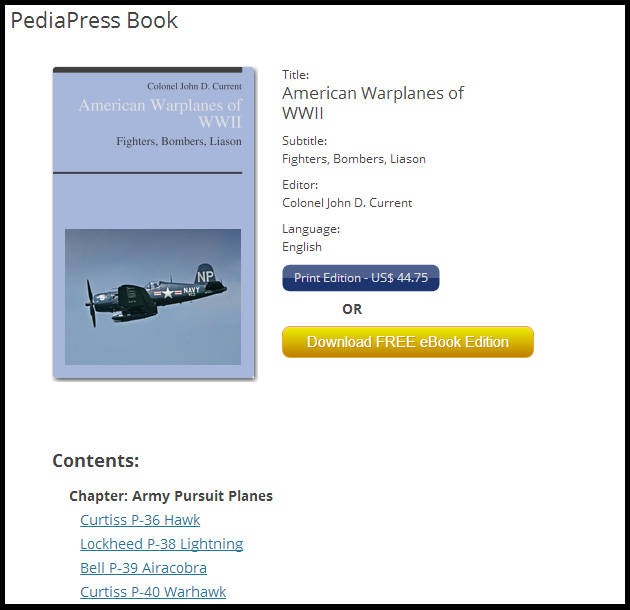
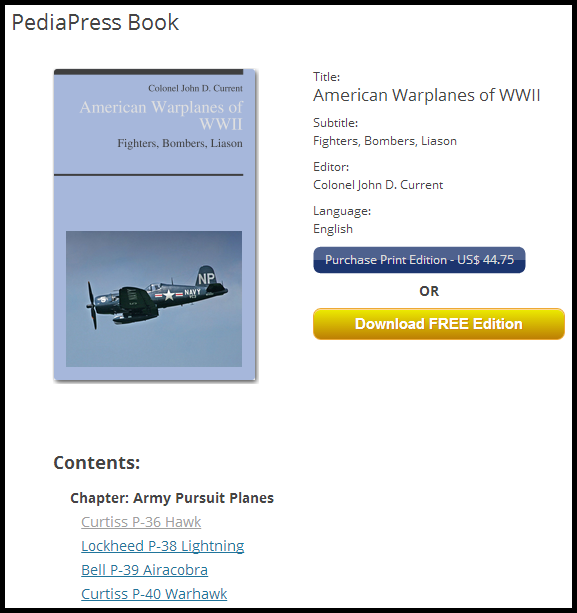
Release v1.4.0
git-svn-id: https://plugins.svn.wordpress.org/rdp-wiki-press-embed/trunk@1048371 b8457f37-d9ea-0310-8a92-e5e31aec5664

Changed region(s): [[0.0624, 0.0934, 0.9983, 0.6541], [0.0624, 0.7475, 0.4679, 0.9967], [0.0, 0.0, 0.312, 0.0623]]

diff --git a/resources/js/pediapress-overlay.js b/resources/js/pediapress-overlay.js
@@ -5,15 +5,53 @@ $j(document).ready(rdp_pp_overlay_onReady);
 
 function rdp_pp_overlay_onReady(){
     $j('#mainContent .ready').removeClass('invisible');
-    $j(".ppe-cover-link").colorbox({iframe:true, innerWidth: 900, innerHeight:"80%",transition:"none"})
-    $j(".ppe-add-to-cart").colorbox({iframe:true, innerWidth: 900, innerHeight:"80%",transition:"none"})
-    if(typeof rdp_we_ppe != 'undefined'){
+
+    if(typeof rdp_we_ppe == 'undefined'){
+        $j(".ppe-cover-link").colorbox({iframe:true, innerWidth: 960, innerHeight:"80%",transition:"none"})
+        $j(".ppe-add-to-cart").colorbox({iframe:true, innerWidth: 960, innerHeight:"80%",transition:"none"})
+    }else{
+
+        $j(".ppe-cover-link").colorbox(
+                                    {returnFocus:false,
+                                    inline:true, 
+                                    innerWidth: 960, 
+                                    innerHeight:"80%",
+                                    transition:"none"
+                                    }); 
+
+        $j(".ppe-add-to-cart").colorbox(
+                                    {returnFocus:false,
+                                    inline:true, 
+                                    innerWidth: 960, 
+                                    innerHeight:"80%",
+                                    transition:"none"
+                                    });                                   
+
+
         $j("#rdp-ppe-inline-content-link").colorbox(
-                                        {inline:true, 
-                                        innerWidth: 900, 
+                                        {returnFocus:false,
+                                        inline:true, 
+                                        innerWidth: 960, 
                                         innerHeight:"80%",
-                                        transition:"none",
-					onCleanup:function(){$j("#rdp_ppe_inline_content_wrapper").html($j("#cboxLoadedContent").html());}
-                                        })        
+                                        transition:"none"
+                                        }) ;
+        $j( "#wiki-embed-tabs" ).tabs(); 
+        
+        $j(document).bind('cbox_complete', function(){
+            setTimeout(function(){
+                $j( "#wiki-embed-tabs .ppe-tab" ).height($j( "#cboxLoadedContent" ).height() - ($j( "#wiki-embed-tabs .ui-tabs-nav" ).height()*3));
+            },300);  
+        }); 
+        
+        $j(document).bind('cbox_cleanup', function(){
+          $j("#rdp_ppe_inline_content_wrapper").html($j("#cboxLoadedContent").html());
+          
+        }); 
+        
+        $j(document).bind('cbox_closed', function(){
+            setTimeout(function(){$j( "#wiki-embed-tabs" ).tabs();},300);
+        });
     }
+      
+
 }//rdp_pp_overlay_onReady

diff --git a/resources/css/pediapress.common.css b/resources/css/pediapress.common.css
@@ -23,10 +23,6 @@
     clear: both;
 }
 
-#mainContent .not-allowed {
-    cursor:not-allowed;
-}
-
 em {
     font-style: italic;
 }
@@ -80,6 +76,8 @@ strong {
 #mainContent .small {
     font-size: 90%;
 }
+
+
 
 #mainContent h1,#mainContent h2,#mainContent h3 {
     clear: both;
@@ -202,7 +200,7 @@ strong {
 }
 
 #mainContent .w4 {
-    width: 206px;
+    width: 236px;
 }
 
 #mainContent .w5 {
@@ -473,7 +471,7 @@ body#errorpage {
     margin-bottom: 0.5em;
 }
 
-#rdp-ppe-inline-content-sep{padding: 5px 0 5px 60px;font-weight: bold;}
+#rdp-ppe-inline-content-sep{padding: 5px 0 5px 106px;font-weight: bold;}
 
 #pp_index .noBox {
     margin-bottom: 30px;
@@ -1209,6 +1207,8 @@ body#errorpage {
     text-align: center;
 }
 
+#mainContent.book_show #coverPreviewArea div a:hover{cursor: pointer;}
+
 #mainContent.book_show li.chapter {
     font-weight: bold;
     list-style-type: none;
@@ -1297,3 +1297,5 @@ li.book-digest {
 .book-digest .title {
     font-size: 120%;
 }
+
+#rdp_ppe_inline_content .ui-tabs .ppe-tab iframe{width: 100%;height:100%;}

diff --git a/resources/rdpWEPPE.php b/resources/rdpWEPPE.php
@@ -3,13 +3,17 @@ if ( ! class_exists('RDP_WE_PPE') ) :
 class RDP_WE_PPE {
     public static function shortcode_handler($url,$atts,$content = null){
         wp_enqueue_script( 'colorbox', plugins_url( '/resources/js/jquery.colorbox.min.js',RDP_WE_PLUGIN_BASENAME),array("jquery"), "1.3.20.2", true );        
-        wp_enqueue_script( 'pp-overlay', plugins_url( '/resources/js/pediapress-overlay.js',RDP_WE_PLUGIN_BASENAME),array("jquery",'colorbox'), "1.0", true );        
+        wp_enqueue_script( 'ppe-overlay', plugins_url( '/resources/js/pediapress-overlay.js',RDP_WE_PLUGIN_BASENAME),array("jquery",'colorbox'), "1.0", true );        
         if(!empty($content)){
             $params = array('fcontent' => 1);
-            wp_localize_script( 'pp-overlay', 'rdp_we_ppe', $params );
+            wp_localize_script( 'ppe-overlay', 'rdp_we_ppe', $params );
+            wp_enqueue_script("jquery-ui-tabs");
+            wp_enqueue_style( 'wiki-embed-admin-core-style', plugins_url( '/admin/css/jquery-ui.css',RDP_WE_PLUGIN_BASENAME ), null,'1.11.2' );            
+            wp_enqueue_style( 'wiki-embed-admin-theme-style', plugins_url( '/admin/css/jquery-ui.theme.min.css',RDP_WE_PLUGIN_BASENAME ), array('wiki-embed-admin-core-style'),'1.11.2' );             
         } 
 
-        wp_enqueue_style( 'wiki-embed-overlay', plugins_url( '/resources/css/colorbox.css',RDP_WE_PLUGIN_BASENAME),false, "1.3.20.2", 'screen');        
+        wp_enqueue_style( 'ppe-colorbox-style', plugins_url( '/resources/css/colorbox.css',RDP_WE_PLUGIN_BASENAME),false, "1.3.20.2", 'screen');        
+        
         $content = self::grabContentFromPediaPress($url,$atts,$content);
         return $content;
     } //shortcode
@@ -18,12 +22,8 @@ class RDP_WE_PPE {
     public static function grabContentFromPediaPress($URL,$atts,$content = null){
         $html = null;
         $sHTML = '';
-        require_once RDP_WE_PLUGIN_BASEDIR .'/resources/simple_html_dom.php'; 
-        $html = rdp_file_get_html($URL);
-        if(!$html)return $sHTML;  
         global $wikiembed_object;     
-        $wikiembed_options = $wikiembed_object->options; 
-        
+        $wikiembed_options = $wikiembed_object->options;         
         $a = shortcode_atts( array(
         'url' => '',
         'toc_show' => empty($wikiembed_options['toc-show'])? '0' : $wikiembed_options['toc-show'],
@@ -43,6 +43,32 @@ class RDP_WE_PPE {
         if(!is_numeric($a['toc_show']))$a['toc_show'] = 1;
         $arrTOCLinksDefaults = array('default','disabled','logged-in');
         if(!in_array( $a['toc_links'], $arrTOCLinksDefaults ))$a['toc_links'] = 'default';
+        
+        $sKEY = esc_url( $a['url'] ).",";
+        $sKEY .= $a['toc_show'] .",";
+        $sKEY .= $a['toc_links'] .",";
+        $sKEY .= $a['cta_button_content'] .",";
+        $sKEY .= $a['cta_button_text'] .",";
+        $sKEY .= $a['cta_button_width'] .",";
+        $sKEY .= $a['cta_button_top_color'] .",";
+        $sKEY .= $a['cta_button_font_color'] .",";
+        $sKEY .= $a['cta_button_font_hover_color'] .",";
+        $sKEY .= $a['cta_button_border_color'] .",";
+        $sKEY .= $a['cta_button_bottom_color'] .",";
+        $sKEY .= $a['cta_button_box_shadow_color'] .",";
+        $sKEY .= $a['cta_button_text_shadow_color'] .",";
+        $sKEY .= is_user_logged_in();
+        $sKEY = 'ppebook-' . md5($sKEY);
+        
+        $cacheInterval = empty($wikiembed_options['ppe-update'])? '0' : $wikiembed_options['ppe-update']; 
+        if(!is_numeric($cacheInterval))$cacheInterval = 0;        
+        if ($cacheInterval > 0 && false !== ( $special_query_results = get_transient( $sKEY ) ) ) return $special_query_results;
+        
+        require_once RDP_WE_PLUGIN_BASEDIR .'/resources/simple_html_dom.php'; 
+        $html = rdp_file_get_html($URL);
+        if(!$html)return $sHTML;  
+
+        
         $sDownloadButton = '';
         $sInlineHTML = '';        
         $bodyID = $html->find('body',0)->id;
@@ -69,8 +95,10 @@ class RDP_WE_PPE {
                 $mainContent->class = 'book_show';
                 $coverImage = $mainContent->find('#coverImage',0);
                 $coverImage->src = $baseURL . $coverImage->src;
-                $coverImage->outertext = "<a href='{$URL}' target='_new' class='ppe-cover-link'>" . $coverImage->outertext . "</a>";
-                
+                $coverImageLink = "<a target='_new' href='";
+                $coverImageLink .= (!empty($a['cta_button_content']))? "#rdp_ppe_inline_content" : $URL ;
+                $coverImageLink .= "' class='ppe-cover-link'>" . $coverImage->outertext . "</a>";
+                $coverImage->outertext = $coverImageLink;
                 if(empty($a['toc_show'])){
                     $mainContent->find('h2',0)->outertext = '';
                     $mainContent->find('ul.outline',0)->outertext = '';                    
@@ -79,15 +107,13 @@ class RDP_WE_PPE {
                         case 'logged-in':
                             if(!is_user_logged_in()):
                                 foreach($mainContent->find('ul.outline li a') as $link){
-                                    $link->href = null;
-                                    $link->class = 'not-allowed';
+                                    $link->outertext = $link->innertext;
                                 }
                             endif;
                             break;
                         case 'disabled':
                             foreach($mainContent->find('ul.outline li a') as $link){
-                                $link->href = null;
-                                $link->class = 'not-allowed';
+                                $link->outertext = $link->innertext;
                             }
                             break;
                         default:
@@ -109,7 +135,10 @@ class RDP_WE_PPE {
                 
                 $sPriceCurrency = $mainContent->find('#price-currency',0)->innertext;
                 $sPriceAmount = $mainContent->find('#price-amount',0)->innertext;
-                $sAddToCart = "<div id='add-to-cart-box'><span class='btn'><a class='ppe-add-to-cart' target='_new' href={$URL}>Print Edition - {$sPriceCurrency} {$sPriceAmount}</a><div></div></span></div>";
+                $sAddToCart = "<div id='add-to-cart-box'><span class='btn'><a href='";
+                $sAddToCart .= (!empty($a['cta_button_content']))? "#rdp_ppe_inline_content" : $URL ;
+                $sAddToCartText = "Purchase Print Edition - {$sPriceCurrency} {$sPriceAmount}";
+                $sAddToCart .= "' class='ppe-add-to-cart' target='_new'>$sAddToCartText</a><div></div></span></div>";
                 $mainContent->find('#price-amount',0)->outertext = '';
                 $mainContent->find('#price-star',0)->outertext = '';
                  
@@ -145,8 +174,19 @@ class RDP_WE_PPE {
                     $sDownloadButton = "<div id='rdp-ppe-inline-content-sep'>OR</div>";
                     $sDownloadButton .= "<div><a id='rdp-ppe-inline-content-link' class='rdp-ppe-cta-button' href='#rdp_ppe_inline_content'>{$a['cta_button_text']}</a></div>";
                     $sInlineHTML .= "<div id='rdp_ppe_inline_content_wrapper' style='display:none'><div id='rdp_ppe_inline_content' style='padding:10px; background:#fff;'>";
+                    $sInlineHTML .= '<div id="wiki-embed-tabs" style="position: static;">';
+                    $sInlineHTML .= "<ul>";
+                    $sInlineHTML .= "<li><a href='#tab-1'>{$a['cta_button_text']}</a></li>";
+                    $sInlineHTML .= "<li><a href='#tab-2'>{$sAddToCartText}</a></li>";
+                    $sInlineHTML .= "</ul>";
+                    $sInlineHTML .= '<div id="tab-1" class="ppe-tab">';
                     $sInlineHTML .= do_shortcode($a['cta_button_content']);
-                    $sInlineHTML .= "</div></div>";
+                    $sInlineHTML .= "</div><!-- #tab-1 -->";
+                    $sInlineHTML .= '<div id="tab-2" class="ppe-tab">';                    
+                    $sInlineHTML .= "<iframe src='{$URL}'></iframe>";
+                    $sInlineHTML .= "</div><!-- #tab-2 -->"; 
+                    $sInlineHTML .= "</div><!-- #ppe-tabs -->";                    
+                    $sInlineHTML .= "</div><!-- #rdp_ppe_inline_content --></div>";
                 }                 
                 $metaData->innertext = $metaParasContent . $sAddToCart . $sDownloadButton;
                 $boundingBoxes[1]->outertext = $s1Divs[0]->outertext . $metaData->outertext; 
@@ -214,10 +254,12 @@ class RDP_WE_PPE {
    
 EOS;
        
-        
-        
-        return $sHTML . $style;
+        $sHTML .= $style;
+
+        if($cacheInterval > 0)set_transient( $sKEY, $sHTML, $cacheInterval * HOUR_IN_SECONDS );
+        return $sHTML;
     }//grabContentFromPediaPress
+    
     
 }//RDP_WE_PPE
 endif;

diff --git a/admin/settings-page.php b/admin/settings-page.php
@@ -8,21 +8,28 @@ function wikiembed_settings_page() {
 	$updated = false;
 	$option = "wikiembed_options";
 
-	if ( isset( $_POST[$option] ) ):
-		$value = $_POST[$option];
+        if(isset($_POST['btnClearPPECache'])){
+            global $wpdb;
+            $sSQL = "DELETE FROM $wpdb->options WHERE option_name LIKE '%_ppebook-%';";
+            $wpdb->query($sSQL);
+            
+        }
+        
+	if (!isset($_POST['btnClearPPECache']) && isset( $_POST[$option] ) ):
+            $value = $_POST[$option];
 
-               $fdisplayTOC = empty($value['toc-show'])? 0 : intval($value['toc-show']);
-		
-		if ( ! is_array( $value ) ) {
-			$value = trim($value);
-		}else{
-                    $value = shortcode_atts( $wikiembed_object->default_settings(), $value );
-                }
-		
-                $value['toc-show'] = $fdisplayTOC;
-		$value = stripslashes_deep( $value );
-		$updated = update_option( $option, $value );
-		$wikiembed_options = $value;
+           $fdisplayTOC = empty($value['toc-show'])? 0 : intval($value['toc-show']);
+
+            if ( ! is_array( $value ) ) {
+                    $value = trim($value);
+            }else{
+                $value = shortcode_atts( $wikiembed_object->default_settings(), $value );
+            }
+
+            $value['toc-show'] = $fdisplayTOC;
+            $value = stripslashes_deep( $value );
+            $updated = update_option( $option, $value );
+            $wikiembed_options = $value;
 	endif; 	
 	
 	$tabs_support = get_theme_support( 'tabs' );
@@ -116,6 +123,26 @@ function wikiembed_settings_page() {
 			<h3>Global Settings </h3>
 			<p>These settings are applied site-wide</p>
 			<table class="form-table">
+				<tr> <!-- Update Content -->
+					<th valign="top" class="label" scope="row">
+						<span class="alignleft">
+							<label for="src">Update content from PediaPress</label>
+						</span>
+					</th>
+					<td class="field">
+						<select name="wikiembed_options[ppe-update]" id="ppe-update">
+							<option value="0" <?php selected( $wikiembed_options['ppe-update'], "0" ); ?>>No Caching</option>
+							<option value="12" <?php selected( $wikiembed_options['ppe-update'], "12" ); ?>>Every 12 Hours </option>
+							<option value="24" <?php selected( $wikiembed_options['ppe-update'], "24" ); ?>>Every 24 Hours </option>
+							<option value="48" <?php selected( $wikiembed_options['ppe-update'], "48" ); ?>>Every 48 Hours </option>
+							<option value="72" <?php selected( $wikiembed_options['ppe-update'], "72" ); ?>>Every 72 Hours </option>
+						</select>
+						<div class="help-div">
+							Set the duration the content of PediaPress book pages to be stored on your site, before it is refreshed again.
+						</div>
+                                            <p><input type="submit" name="btnClearPPECache" value="Clear PediaPress Cache" /></p>
+					</td>
+				</tr>                            
 				<tr> <!-- Update Content -->
 					<th valign="top" class="label" scope="row">
 						<span class="alignleft">
@@ -430,7 +457,8 @@ function wikiembed_options_validate( $wikiembed_options ) {
 		'style'           => ( isset( $wikiembed_options['style']           ) && $wikiembed_options['style']           == 1 ? 1 : 0 ),
 		'tabs-style'      => ( isset( $wikiembed_options['tabs-style']      ) && $wikiembed_options['tabs-style']      == 1 ? 1 : 0 ),
 		'accordion-style' => ( isset( $wikiembed_options['accordion-style'] ) && $wikiembed_options['accordion-style'] == 1 ? 1 : 0 ),
-		'wiki-update'     => ( is_numeric( $wikiembed_options['wiki-update'] ) ? $wikiembed_options['wiki-update'] : "30" ),
+                'ppe-update'     => ( is_numeric( $wikiembed_options['ppe-update'] ) ? $wikiembed_options['ppe-update'] : "12" ), /* hours */
+		'wiki-update'     => ( is_numeric( $wikiembed_options['wiki-update'] ) ? $wikiembed_options['wiki-update'] : "30" ), /* minutes */
 		'wiki-links'      => ( in_array( $wikiembed_options['wiki-links'], array( "default", "overlay", "new-page","overwrite" ) ) ? $wikiembed_options['wiki-links'] : "default" ),
 		'wiki-links-new-page-email' => wp_rel_nofollow( $wikiembed_options['wiki-links-new-page-email'] ),
 		'toc-show'            => ( isset( $wikiembed_options['toc-show']) && $wikiembed_options['toc-show']            == 1 ? 1 : 0 ),		

diff --git a/WikiEmbed.php b/WikiEmbed.php
@@ -3,7 +3,7 @@
  * Plugin Name: RDP Wiki-Press Embed
  * Plugin URI: http://www.robert-d-payne.com/
  * Description: Enables the inclusion of MediaWiki pages and PediaPress book pages into your own blog page or post through the use of shortcodes. Forked from: <a href="http://wordpress.org/plugins/rdp-wiki-press-embed/" target="_blank">Wiki Embed plugin</a>.
- * Version: 1.3.2
+ * Version: 1.4.0
  * Author: Robert D Payne
  * Author URI: http://www.robert-d-payne.com/
  *
@@ -55,7 +55,7 @@
 define('RDP_WE_PLUGIN_BASENAME', plugin_basename(__FILE__));
 $dir = plugin_dir_path( __FILE__ );
 define('RDP_WE_PLUGIN_BASEDIR', $dir);
-/* download button default values */
+/* Call-to-Action button default values */
 define('PPE_CTA_BUTTON_TEXT', 'Download FREE eBook Edition');
 define('PPE_CTA_BUTTON_WIDTH', '250');
 define('PPE_CTA_BUTTON_TOP_COLOR', '#eded00');
@@ -289,7 +289,8 @@ class Wiki_Embed {
                     'style'           => 1,
                     'tabs-style'      => 0,
                     'accordion-style' => 0,
-                    'wiki-update'     => "30",
+                    'ppe-update'     => "12", /* hours */
+                    'wiki-update'     => "30", /* minutes */
                     'wiki-links'      => "default",
                     'wiki-links-new-page-email' => "",
                     'toc-links'      => "default",
